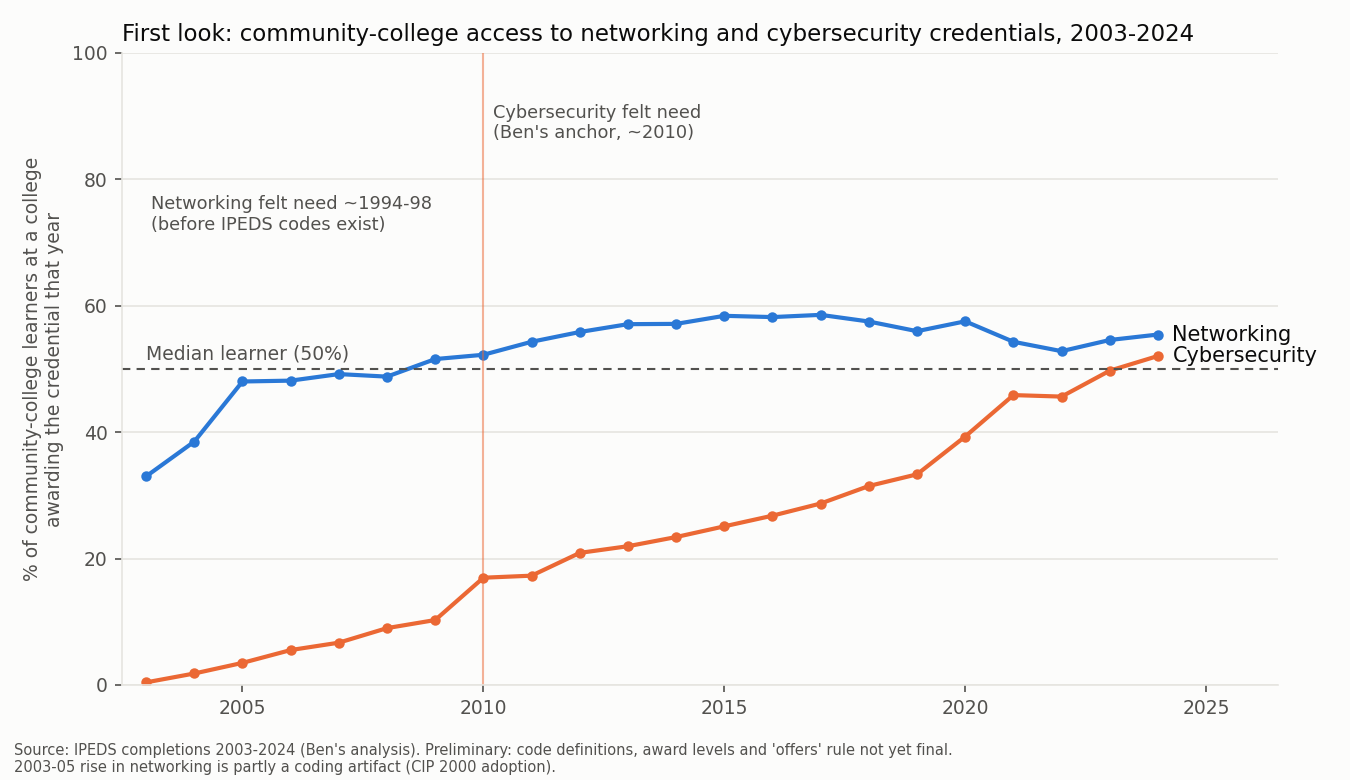
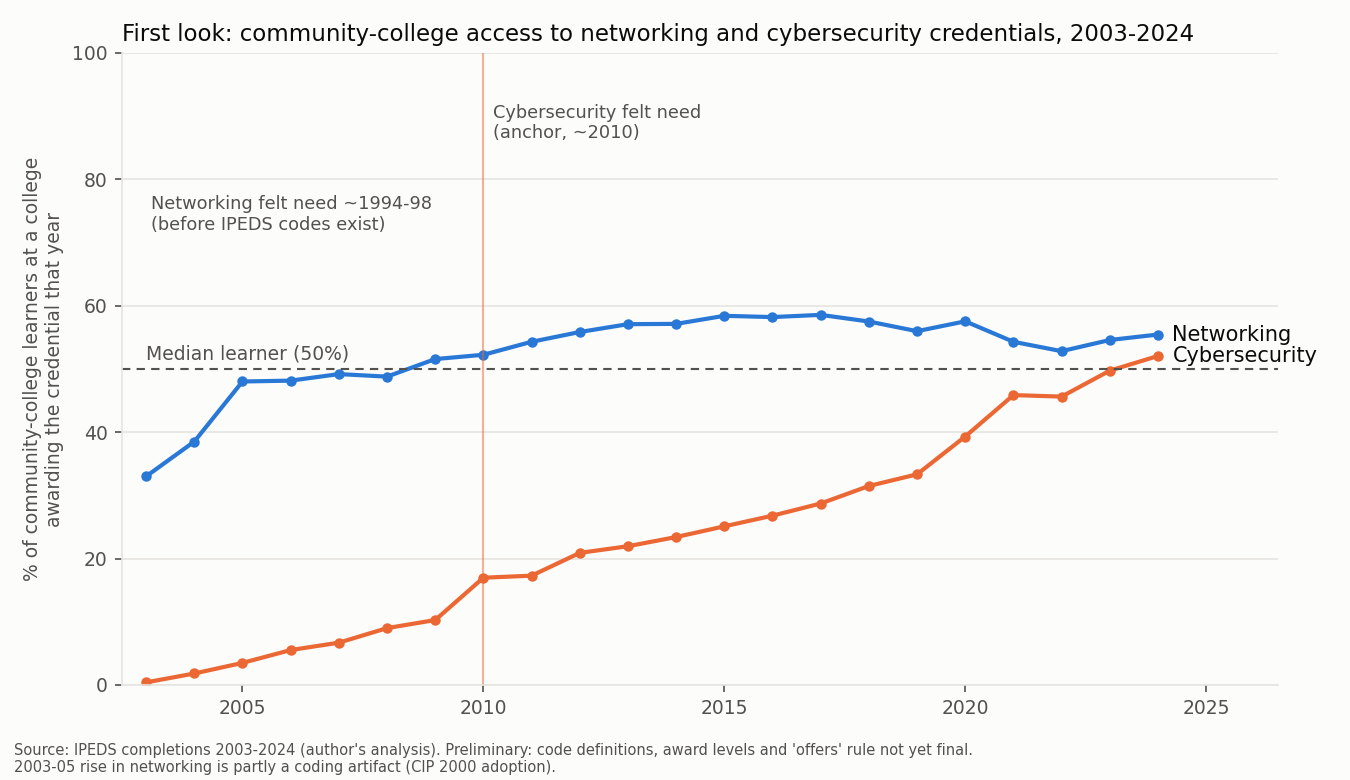
Clean up documentation for outside readers; add hand-validation record

Changed region(s): [[0.2178, 0.9538, 0.7156, 0.9846], [0.3733, 0.1538, 0.5289, 0.1846]]

diff --git a/scripts/03_first_look_chart.py b/scripts/03_first_look_chart.py
@@ -1,7 +1,7 @@
 """Step 3 (first look): share of community-college learners at a college that awarded
 a networking or cybersecurity credential that year, weighted by each college's total awards.
 
-Preliminary definitions (to be confirmed by Ben):
+Preliminary definitions (later finalized; see scripts 11 and 16):
 - Cybersecurity codes: 11.1003, 43.0116 (moved to 43.0403 in CIP 2020), 43.0404
 - Networking codes: 11.0901, 11.1001, 11.1002
 - 'Offers' = at least one first-major award in that year, any award level
@@ -22,7 +22,7 @@ for case, col, label in [("net", BLUE, "Networking"), ("cyber", ORANGE, "Cyberse
 ax.axhline(50, color=INK2, lw=1, ls=(0, (4, 3)))
 ax.text(2003, 51.5, "Median learner (50%)", color=INK2, fontsize=9)
 ax.axvline(2010, color=ORANGE, lw=1, alpha=0.5)
-ax.text(2010.2, 92, "Cybersecurity felt need\n(Ben's anchor, ~2010)", color=INK2, fontsize=8.5, va="top")
+ax.text(2010.2, 92, "Cybersecurity felt need\n(anchor, ~2010)", color=INK2, fontsize=8.5, va="top")
 ax.text(2003.1, 72, "Networking felt need ~1994-98\n(before IPEDS codes exist)", color=INK2, fontsize=8.5)
 ax.set_xlim(2002.5, 2026.5); ax.set_ylim(0, 100)
 ax.set_ylabel("% of community-college learners at a college\nawarding the credential that year", color=INK2, fontsize=9)
@@ -31,7 +31,7 @@ ax.set_title("First look: community-college access to networking and cybersecuri
 for s in ["top", "right"]: ax.spines[s].set_visible(False)
 for s in ["left", "bottom"]: ax.spines[s].set_color(GRID)
 ax.tick_params(colors=INK2, labelsize=9); ax.grid(axis="y", color=GRID, lw=0.8); ax.set_axisbelow(True)
-fig.text(0.01, 0.01, "Source: IPEDS completions 2003-2024 (Ben's analysis). Preliminary: code definitions, award levels and 'offers' rule not yet final.\n"
+fig.text(0.01, 0.01, "Source: IPEDS completions 2003-2024 (author's analysis). Preliminary: code definitions, award levels and 'offers' rule not yet final.\n"
          "2003-05 rise in networking is partly a coding artifact (CIP 2000 adoption).", fontsize=7, color=INK2)
 plt.tight_layout(rect=(0, 0.05, 1, 1))
 plt.savefig("output/first_look_access_cc.png", facecolor=BG)

diff --git a/scripts/07_cyber_timeline_chart.py b/scripts/07_cyber_timeline_chart.py
@@ -20,7 +20,7 @@ ax1.plot(n.index, n.cyber_workers, color=AQUA, lw=2); ax1.text(2024.3, n.cyber_w
 ax1.plot(n.index, n.computer_security_phrase, color=INK2, lw=1.2, ls=(0, (2, 2))); ax1.text(1990.2, 140, "'computer security' (older term)", color=INK2, fontsize=8.5)
 ax1.set_ylabel("NYT articles per year", color=INK2, fontsize=9)
 ax1.set_title("Felt need: New York Times coverage", color=INK, fontsize=10.5, loc="left")
-ax1.text(2010.3, 380, "Ben's felt-need anchor (~2010)", color=INK2, fontsize=8.5)
+ax1.text(2010.3, 380, "Felt-need anchor (~2010)", color=INK2, fontsize=8.5)
 ax2.plot(a.index, a.access_share * 100, color=ORANGE, lw=2, marker="o", ms=3.5)
 ax2.axhline(50, color=INK2, lw=1, ls=(0, (1, 2))); ax2.text(1990.2, 52, "Median learner (50%)", color=INK2, fontsize=8.5)
 ax2.set_ylim(0, 100); ax2.set_ylabel("% of community-college learners\nat a college awarding a cyber credential", color=INK2, fontsize=9)

diff --git a/scripts/06_nyt_felt_need.py b/scripts/06_nyt_felt_need.py
@@ -4,7 +4,7 @@ Each query counts NYT articles per year that match the terms. Notes on the API (
 - q with several words behaves like AND ("cybersecurity workers" = both words), quoted phrases work,
   and OR / body: filters are NOT supported, so each term is its own series.
 - Rate limit is ~5 requests/minute, so the script sleeps 12.5s between calls and is resumable:
-  it skips (series, year) pairs already saved and stops after ~13 calls per run (fits one 3-minute window).
+  it skips (series, year) pairs already saved and stops after a small batch of calls per run (the API is rate-limited).
 - No usable yearly total: q=* returns 0, an empty q is capped at 10,000 hits, and 'the' is treated as a stopword.
   So counts are raw. We read timing (onset and inflection), not levels.
 Output: data/processed/nyt_counts.csv

diff --git a/scripts/17_implementation_chart.py b/scripts/17_implementation_chart.py
@@ -1,4 +1,4 @@
-"""Step 17: Finding 3 chart (Oct 5 redline). Both cases on one calendar axis, with felt-need bands from Finding 1
+"""Step 17: Finding 3 chart. Both cases on one calendar axis, with felt-need bands from Finding 1
 and the latency to the median learner. Shares are the access-weighted series behind Finding 3 (same numbers as script 10)."""
 import matplotlib; matplotlib.use("Agg")
 import matplotlib.pyplot as plt

diff --git a/scripts/exercise_my_definition.py b/scripts/exercise_my_definition.py
@@ -1,4 +1,4 @@
-"""EXERCISE (for Ben): change a judgment call yourself and see what moves.
+"""EXERCISE: change a judgment call yourself and see what moves.
 
 Edit the two settings below, save, and run:   python3 scripts/exercise_my_definition.py
 It prints, for each year, the share of community-college learners at a college that awarded a credential

diff --git a/notes/lab-notebook.md b/notes/lab-notebook.md
@@ -8,7 +8,7 @@
 
 ## 2026-10-01 - decisions
 - Core cases: networking + cybersecurity. Web development excluded (never a clearly credentialed pathway).
-- Cybersecurity felt-need anchor ~2010 (Ben). The 1998-2001 national-security wave is noted separately.
+- Cybersecurity felt-need anchor ~2010 (my judgment; later formalized as 2009-2010, see Oct 5). The 1998-2001 national-security wave is noted separately.
 - 1960s historical case and sector overlays (healthcare, climate) move to the research agenda.
 
 ## 2026-10-01 - first pipeline run
@@ -20,17 +20,16 @@
 - First result (community colleges, access-weighted): cybersecurity reaches 17% of learners in 2010, 25% in 2015, 39% in 2020, and crosses 50% in 2024, so roughly 14 years after a 2010 felt need. Networking is already at 33% in 2003 (left-censored), crosses ~50% in 2008-09, and plateaus at 55-58%.
 - Possible stories behind the dips (to check): the 2016 dip in both curves may be ITT Tech's closure (Sept 2016). The networking decline after 2014 may reflect absorption into general IT (11.0103) or cloud.
 
-## 2026-10-01 - for-profit question (Ben)
+## 2026-10-01 - for-profit question
 - Clarification: the first-look chart covers public 2-year colleges nationwide only (IPEDS sector 4). For-profits are excluded from it, but included in the "all" group.
-- Ben's hypothesis: for-profits exploited the latency gap, quickly offering credentials that matched felt need but had poor labor-market value. The data support the first half:
+- Hypothesis: for-profits exploited the latency gap, quickly offering credentials that matched felt need but had poor labor-market value. The data support the first half:
   - Cybersecurity, share of awards from for-profits: 42% (2004), 76% (2006), 63% (2008), 59% (2010), 50% (2012), 37% (2014), 20% (2016), 12% (2020-24). Publics became the majority only around 2016.
   - Networking, share from for-profits: about 50-54% from 2006 to 2012, then about 25% after 2016.
   - Top cybersecurity awarders 2004-2012: University of Phoenix Online, Capella, ITT Tech Indianapolis, ECPI (2 campuses), UMUC. Top networking awarders: Phoenix Online, ITT Tech, AIU Online, DeVry (IL, CA).
 - Proposed handling: measure latency on public + nonprofit delivery, and report for-profit timing as its own finding (the market filled the gap, often with low-value product). Validate the proxy with College Scorecard field-of-study earnings (CIP 4-digit x credential level; graduates from about 2014-15 to 2019-20), using the earnings-premium threshold from the 2023 financial value / GE rule (median earnings above the median for high-school graduates aged 25-34 in the state).
-- Blocker: the College Scorecard download hosts are not on the allowed list yet.
 
 ## 2026-10-01 - Scorecard value check (first pass)
-- Ben downloaded the full College Scorecard raw data (06/03/2026 release) into data/raw/College_Scorecard_Raw_Data_06032026.
+- Downloaded the full College Scorecard raw data (06/03/2026 release) into data/raw/College_Scorecard_Raw_Data_06032026.
 - Trap 5: Scorecard field-of-study files fill earnings variables inconsistently from release to release. FieldOfStudyData1415_1516 has no earnings for these programs. The earliest usable data is FieldOfStudyData1516_1617, EARN_MDN_HI_1YR (1-year earnings, Title IV recipients). "Most recent" has EARN_NE_MDN_3YR.
 - Trap 6: about 95% of public IT programs are privacy-suppressed (small cohorts). In 1516_1617, programs with earnings break down as 331 for-profit, 93 public, 64 nonprofit. Coverage is skewed toward large online for-profits.
 - Trap 7: IPEDS award levels changed in 2020. Level 1 (under-1-year certificate) split into 20/21 (e.g., an awlevel 21 cyber award at Fullerton College in 2024). Any award-level filter must map the old and new codes.
@@ -61,7 +60,7 @@ Implications:
 
 ## 2026-10-01 - university catalog sample: method change
 - Drew a random sample of 50 public universities (scripts/05; seed 2026). Frame: 514 IPEDS sector-1 institutions with INSTCAT 2 and their own domain that awarded at least one CIP 11 bachelor's in 2024. (A first draw included community colleges with a few bachelor's degrees, e.g., Lone Star and Austin CC. Those were excluded and the sample redrawn.)
-- Wayback CDX blocked us: 503 "Temporarily Offline", then 429 (rate limited), after the broad domain queries. Long CDX queries also exceed the 3-minute call limit, and background jobs don't survive between calls.
+- Wayback CDX returned 503 "Temporarily Offline", then 429 (rate limited), after the broad domain queries, and long domain-wide queries timed out.
 - Fallback: for each institution, use web research (catalog pages, catalog archives, university news releases, program pages) to code (a) whether a cybersecurity degree, concentration, or certificate exists, (b) its level and form (standalone vs. concentration), and (c) the earliest evidenced year, with source and confidence. The earliest evidence is an UPPER bound on when it started. Retry Wayback later to validate a subset.
 - Partial web-research coding: 14 of 50 done (data/wayback/sample50_coding_partial.csv). Search snippets settle program existence and form only about half the time. Dating needs catalog archives or Wayback.
 - Early pattern: (1) concentrations hidden from cyber codes (Pitt MSIS concentration, UTD CS track, UNCG concentrations); (2) noncredit-only cyber via extended ed or vendor bootcamps (UIC bootcamp, CSUMB, FVSU ed2go). That's a second "fast channel" that IPEDS can't see.
@@ -69,21 +68,21 @@ Implications:
 ## 2026-10-01 - NYT felt-need counts
 - Trap 8: in NYT Article Search, a multi-word q ("cybersecurity workers") behaves like AND only when every word has matches. In years when "cybersecurity" never appears (1990-2001), it silently falls back to matching "workers" alone: about 6,500-10,000 hits a year, versus 2-9 a year once the term exists. Fix: cap the AND series at the single-term count (cyber_workers <= cybersecurity) and treat years where the rare term is zero as zero. Prefer quoted phrases.
 - Trap 9: there is no usable yearly total for normalization (q=* returns 0, an empty q caps at 10,000, "the" is a stopword). Use raw counts and read timing only.
-- The script takes ~13 calls per run but sometimes overruns the 3-minute window; use 9 per run.
-- NYT results (raw yearly counts): "computer security" peaks 1999-2003 (84-131) = the national-security wave. "Cybersecurity" plus "cyber security" stays under 31 a year until 2008, jumps to 94 in 2009, then 176 (2013), 258 (2015), 348 (2017), 414 (2020). Workforce framing ("cybersecurity" + "workers") is about 5-9 a year until 2012, then 17 (2013), 36 (2015), 82 (2019), 95 (2020). Reading: topic salience turns around 2009 (consistent with Ben's ~2010 anchor); the workforce-need consensus forms around 2013-2017.
+- The API is rate-limited, so the script runs in small, resumable batches.
+- NYT results (raw yearly counts): "computer security" peaks 1999-2003 (84-131) = the national-security wave. "Cybersecurity" plus "cyber security" stays under 31 a year until 2008, jumps to 94 in 2009, then 176 (2013), 258 (2015), 348 (2017), 414 (2020). Workforce framing ("cybersecurity" + "workers") is about 5-9 a year until 2012, then 17 (2013), 36 (2015), 82 (2019), 95 (2020). Reading: topic salience turns around 2009 (consistent with the ~2010 anchor); the workforce-need consensus forms around 2013-2017.
 - Networking: NYT is a weak sensor. "network administrators" never exceeds 14 a year; "information technology workers" peaks at 12 in 2000 (the 1997-2000 IT-worker-shortage debate). Networking felt need will rest on anchor documents (e.g., the 1997 Commerce Dept and ITAA IT-workforce reports) plus Ngram, not NYT counts.
 - Prototype chart: output/cyber_timeline_prototype.png (felt need above, delivery below, shared year axis).
 
 ## 2026-10-01 - Federal Register (administrative-layer sensor)
-- Pulled through the browser pane (federalregister.gov API, yearly and agency facets). Saved to data/processed/federal_register_counts.csv and federal_register_agency_first_mention.csv. The FR search supports | (OR) and quoted phrases.
+- Pulled from the federalregister.gov API (yearly and agency facets). Saved to data/processed/federal_register_counts.csv and federal_register_agency_first_mention.csv. The FR search supports | (OR) and quoted phrases.
 - "cybersecurity | cyber security": 0 before 1999, 17 (2002), 46 (2009), 130 (2010), 164 (2015), 280 (2016), 430 (2020), 676 (2024). "computer security" holds steady at 30-75 a year through 2008, then fades.
 - Trap 10: "cyber + (workforce | training ...)" mostly picks up regulatory cyber-TRAINING requirements for existing staff (NRC, SEC, DOT), not workforce development. Don't use it as felt need for new workers. The exact phrase "cybersecurity workforce" / "cyber workforce" is rare (0-7 a year, first in 2010).
 - Who owned the need (first FR document mentioning cybersecurity): NIST 2002, DHS 2004, Education 2004, NSF 2008, all of DOL 2016, ETA (DOL's workforce agency) 2019. In 2010-14 DHS had 104 documents, NIST 51, NSF 13, Education 1, DOL 0.
-- Reading: the security and science agencies owned cybersecurity a decade before the workforce system engaged. That's political latency inside the administrative layer, consistent with Ben's stack theory. Needs checking against DOL grant programs that may not appear under these terms (e.g., TAACCCT 2011-18 grants funded IT/cyber programs).
+- Reading: the security and science agencies owned cybersecurity a decade before the workforce system engaged. That's political latency inside the administrative layer, consistent with the layered (political / administrative / operational) framing. Needs checking against DOL grant programs that may not appear under these terms (e.g., TAACCCT 2011-18 grants funded IT/cyber programs).
 - Networking: FR is as weak a sensor as NYT ("network administrator(s)" / "computer networking" 2-13 a year; IT-workforce phrases peak at 10 in 2000).
 
 ## 2026-10-01 - Congressional Record / hearings (political-layer sensor)
-- GovInfo search API (api_key in notes/govinfo_key.txt). Counts = CREC granules (items) per year by publish date; CREC totals per year allow per-10k normalization. CHRG publish dates lag hearings.
+- GovInfo search API (API key stored locally; not included in this repository). Counts = CREC granules (items) per year by publish date; CREC totals per year allow per-10k normalization. CHRG publish dates lag hearings.
 - Cyber in CREC per 10k items: 0 before 1998; 18 (2000-01); spike to 55 (2002: Homeland Security Act, Cyber Security R&D Act); 30-48 (2003-09); 65 (2010); 124 (2012: Cybersecurity Act of 2012 debate); 196 (2015: CISA); about 150-200 since.
 - IT workers / high-tech workers in CREC: peaks 56 (1998) and 61 (2000), matching the H-1B debates (ACWIA 1998, AC21 2000). "network administrators"/"computer networking" peaks at 18 in 1998. So networking felt need is visible in Congress around 1998-2000 as an IT-worker-shortage frame, not as "networking."
 - Layer sequence for cyber (first year at >=10% of own peak, 3-yr avg): Congress 2001, NYT 2008, Federal Register 2009; DOL first FR mention 2016, ETA 2019. Political insiders first, elite press about 7 years later, the workforce agency about 18 years later. Note this cuts against the "speeches chase discourse" pattern: for national-security topics, insiders may lead.
@@ -91,7 +90,7 @@ Implications:
 
 ## 2026-10-01 - enactment timeline
 - data/processed/enactment_timeline.csv lists federal acts, programs, and signals with confidence and source. Rows marked "general knowledge - verify" still need a primary source.
-- Pattern: political latency is SHORT. Networking: the IT-worker felt need peaks in Congress in 1998/2000, and ACWIA (Oct 1998) funds DOL H-1B training grants, first awarded in 2000. Cyber: the first CAE designations (1999) and CyberCorps (2000) come almost immediately after the insider wave; NICE (2010) coincides with Ben's 2010 anchor.
+- Pattern: political latency is SHORT. Networking: the IT-worker felt need peaks in Congress in 1998/2000, and ACWIA (Oct 1998) funds DOL H-1B training grants, first awarded in 2000. Cyber: the first CAE designations (1999) and CyberCorps (2000) come almost immediately after the insider wave; NICE (2010) coincides with the 2010 anchor.
 - Implementation latency is LONG and dominates. Cyber: NICE 2010 -> median community-college learner with access in 2024 = ~14 years.
 - Aim mismatch: early federal cyber programs targeted universities and the federal workforce (CAE universities 1999, SFS scholarships for federal service). Community colleges got a designation only in 2010 (CAE2Y, 6 colleges), and DOL's workforce agency engaged only in 2019. The policy that existed was aimed at a different population than the median learner.
 
@@ -108,9 +107,9 @@ Implications:
 - Medium-high (not re-fetched): National Strategy to Secure Cyberspace (Feb 2003); NICE Framework SP 800-181 (Aug 2017).
 
 ## 2026-10-01 - North Carolina validation (primary source: NCCCS annual approval reports, 2007-2013)
-- Source: "Curriculum Program Approvals and Terminations," Jan-Dec 2007/2008/2009/2010/2011/2012/2013 (webservices.ncleg.gov ViewDocSiteFile 16256, 16337, 16386, 16556, 16603, 16681, 11237). Read through WebFetch (summarized by a model; spot-check against the originals before citing). Table: data/processed/nc_validation.csv.
+- Source: "Curriculum Program Approvals and Terminations," Jan-Dec 2007/2008/2009/2010/2011/2012/2013 (webservices.ncleg.gov ViewDocSiteFile 16256, 16337, 16386, 16556, 16603, 16681, 11237). Read with model-assisted extraction; check figures against the original reports before citing. Table: data/processed/nc_validation.csv.
 - Approval to first IPEDS completer: 1-4 years, median about 2.5-3 (10 matched approvals). So IPEDS completion-based dates trail program launch by about 2-3 years, and code-based latency overstates true implementation latency by roughly that much. A correction factor for the write-up.
-- 2 of about 12 approved programs (Edgecombe Cyber Crime 2010, Pamlico ISS 2010) never produced a cyber-coded completer through 2024. One (Johnston 2012) produced completers in a single year. Approval is not delivery, even inside one college: Ben's vaporware sub-thesis at the micro level.
+- 2 of about 12 approved programs (Edgecombe Cyber Crime 2010, Pamlico ISS 2010) never produced a cyber-coded completer through 2024. One (Johnston 2012) produced completers in a single year. Approval is not delivery, even inside one college: the vaporware pattern at the micro level.
 - Terminations show up as IPEDS teach-outs (Wayne 2011 -> last award 2013; Pitt 2013 -> last award 2013, "not offered recently due to economic trends").
 - 2013: NCCCS consolidated networking and related programs into "Computer Technology Integration" (A25500). That explains NC's heavy generic coding (11.0103) and confirms Trap 12 for NC.
 - NC's "special application process" (an abbreviated approval track for pre-listed titles like ISS and Networking Technology) is a system design feature that speeds approvals. Relevant to the "why" agenda (centralized standards).
@@ -133,23 +132,23 @@ Implications:
 - Current-URL lookups are fast (15-25s), but the earliest capture reflects website redesigns, not program starts. E.g., UNCG's cyber post-bacc certificate page was first captured 2023-06, yet IPEDS shows UNCG cyber completions from 2020. Earliest-capture-of-current-URL is often LATER than IPEDS, so it can't test whether IPEDS late-dates adoption.
 - A workable dating method needs older program-listing pages at different URLs: (a) the institution's own archived catalogs (Acalog/CourseLeaf archives are often live back to about 2008-2012, keyword-searchable, fast, no Wayback), with (b) Wayback snapshots of program A-Z pages for specific years as a fallback.
 
-## 2026-10-01 (night) - university sample, Option A complete (50/50 coded)
+## 2026-10-01 (night) - university sample complete (50/50 coded)
 - Method: Wayback CDX host-prefix scans (www.<domain>, catalog.<domain>) for archived URLs containing cyber / information-security / infosec / information-assurance, filtered to program-like URLs. Earliest capture = an UPPER bound on when a credential was publicly described. Supplemented with web research (news, current catalogs). Hosts too big for CDX (pitt, uic, uta, umw-www, umass, jsums) were handled through web research. Rate limits (429) were handled with pauses. Files: data/wayback/host_scans.csv, cdx/, earliest_candidates.txt, sample50_coding_final.csv, sample50_coding_merged.csv; scripts 13-15.
 - Coding: 37/50 have a credit-bearing cyber credential (degree, concentration/track/emphasis, or certificate); 1 has a minor only; 12 have none found (several low-confidence "N"; noncredit-only offerings like UIC's bootcamp, CSUMB, and Nevada State count as N).
 - Hidden entirely: 7 of 37 (19%) never appear under federal cyber codes through 2024: Mary Washington (BS since ~2020), Tennessee State (CS concentration since 2020-21), Western Colorado (CS info-security emphasis since 2019), Savannah State (CS track since 2021-22), plus Mines, UT Arlington, and Purdue Fort Wayne (dates unknown).
 - Late: of 18 institutions dated independently of IPEDS that do appear in cyber codes, the median lag from first evidence to first cyber-coded award is 3 years (mean 5.3). That's in line with the normal 1-4 year launch-to-graduate lag from the NC validation. But 8 of 18 (44%) lag MORE than 3 years: Toledo 4, Middle Georgia 6, USF 7, Morgan 7, Angelo 8, UCF 8, UW-Parkside 17 (certificate since 2007), Pitt 19 (MSIS security track since ~2004).
 - Combined: at least 15 of 37 universities with cyber credentials (41%) were invisible to federal cyber codes for years beyond normal lag, or entirely. Because evidence dates are upper bounds, these gaps are conservative.
-- Caveats: (1) Wayback URL-keyword evidence favors institutions whose URLs contain "cyber"; programs described under other words are missed, which makes earliest dates late (conservative). (2) "N" codings for small/large schools rely on web search; some may be wrong. (3) Hand validation of a subset by Ben is still pending (suggest UWP, Pitt, UCF, Angelo, Tennessee State, UMW, Western Colorado, Savannah State).
+- Caveats: (1) Wayback URL-keyword evidence favors institutions whose URLs contain "cyber"; programs described under other words are missed, which makes earliest dates late (conservative). (2) "N" codings for small/large schools rely on web search; some may be wrong. (3) A subset of 8 was hand-validated on Oct 2 (see below and HAND_VALIDATION.md).
 - Chart: output/university_gap.png (dumbbell: first evidence vs. first cyber-coded award).
 
-## 2026-10-02 - Ben's hand validation (8 universities)
-- Ben confirmed UW-Parkside, UCF, Angelo State, and Western Colorado. Tennessee State, Mary Washington, and Savannah State: programs exist, and College Navigator shows no "Computer and Information Systems Security" program. That confirms the "hidden" claim.
+## 2026-10-02 - hand validation (8 universities)
+- Confirmed UW-Parkside, UCF, Angelo State, and Western Colorado. Tennessee State, Mary Washington, and Savannah State: programs exist, and College Navigator shows no "Computer and Information Systems Security" program. That confirms the "hidden" claim.
 - Pitt: the 2004 LERSAIS article shows only the CAE designation, not a credential. Re-dated to 2012 using the archived 2012 graduate bulletin (MSIS specialization in information assurance and security). The lag is now 11 years. Counts are unchanged (15/37; 8/18 >3 yrs); median lag 3; mean lag 4.9.
 
-## Oct 5: redline of Ben's 10-4 draft
+## 2026-10-05 - revisions to the research note
 - Reordered findings to follow the framework: 1 felt need, 2 enactment (political latency), 3 implementation (implementation latency), 4 for-profit, 5 measurement, 6 state variation (split out of 5).
 - Felt-need dating rule made explicit: when attention spread beyond Congress to the press and agencies. Networking 1998–2000; cybersecurity 2009–2010.
 - Headline latency is now 9–14 years (networking ~2009 crossing = 9–11 yrs; cybersecurity 2023 = 13–14 yrs; 2020 by the looser test).
 - New Finding 3 chart: scripts/17_implementation_chart.py -> output/implementation_latency.png.
 - Networking felt-need layers checked (raw counts): Congress spike 1998 (30.6 per 10k), NYT 24 articles in 2000, Federal Register 13 in 2000. Too thin to chart; described in text.
-- AI section rewritten per Ben: ChatGPT = attention to technology, not workforce felt need; projection late 2030s–early 2040s, framed as judgment.
+- AI section revised: ChatGPT = attention to technology, not workforce felt need; projection late 2030s–early 2040s, framed as judgment.

diff --git a/WALKTHROUGH.md b/WALKTHROUGH.md
@@ -1,12 +1,10 @@
-# Walkthrough: understanding the pipeline (for Ben)
+# Walkthrough: how the pipeline works
 
-**Goal:** be able to say, truthfully, "I can explain every step and every judgment call." Plan for two sittings of about an hour each. Do Part A before submitting. Parts B-C are for interview prep.
+A plain-English guide to the code, for readers who want to check the measure or change a judgment call themselves.
 
----
+## Part A: the core measure in about 40 lines
 
-## Part A: the core idea in code (before Monday, about 60 min)
-
-### A1. Five pandas ideas (10 min)
+### A1. Five pandas ideas
 
 Everything here is built from these five moves:
 
@@ -18,40 +16,31 @@ Everything here is built from these five moves:
 | `a.merge(b, on=["year","unitid"])` | joins two tables on shared keys | VLOOKUP |
 | `(x * w).sum() / w.sum()` | weighted average | SUMPRODUCT / SUM |
 
-### A2. Read the exercise script (15 min)
+### A2. Read the exercise script
 
-Open `scripts/exercise_my_definition.py`. It is the whole delivery measure in about 40 lines, numbered 1-5. In each step, find the pandas idea from A1.
+`scripts/exercise_my_definition.py` is the whole implementation measure, in five numbered steps. Each step uses one or two of the ideas above.
 
-### A3. Run it yourself (10 min)
+### A3. Run it
 
-From the Fellows Demo folder, run `python3 scripts/exercise_my_definition.py`. You should see 2023 as the first year at or above 50%. That is the headline number in Finding 1.
+From the repository root, after running `scripts/00_download_raw.sh` and scripts 01–02, run `python3 scripts/exercise_my_definition.py`. It prints the access-weighted share for each year; 2023 is the first year at or above 50%, the cybersecurity date in Finding 3.
 
-### A4. Change a judgment call (15 min)
+### A4. Change a judgment call
 
-Edit `MY_CODES` to add `"11.0901", "11.1001", "11.1002"` (networking). Rerun. The year jumps to 2009. Be able to explain why: some colleges file cybersecurity under networking codes (Las Positas), and networking programs were already widespread by 2003. That is exactly why the note reads the code-based date as an upper bound.
+Edit `MY_CODES` to add `"11.0901", "11.1001", "11.1002"` (networking) and rerun. The year jumps to 2009. Some colleges file cybersecurity under networking codes (Las Positas, for example), and networking programs were already widespread by 2003. That is why the note reads the code-based date as an upper bound.
 
-### A5. Say it out loud (10 min)
+### A5. The measure in three sentences
 
-Explain the delivery measure in 3 sentences without notes. Something like: *"For each year, I take every community college, mark whether it awarded at least one credential under the cybersecurity codes, and weight it by how many credentials it awards overall. The weighted share is the fraction of learners attending a college that delivers the credential. The median learner has access when that share crosses 50%."*
+For each year, take every community college, mark whether it awarded at least one credential under the cybersecurity codes, and weight it by how many credentials it awards overall. The weighted share is the fraction of learners attending a college that delivers the credential. The median learner has access when that share crosses 50%.
 
----
+## Part B: script by script
 
-## Part B: script by script (interview prep, about 60 min)
-
-| Script | Plain-English job | The judgment call inside it | Likely question |
+| Script | What it does | The judgment call inside it | A question a reader might ask |
 |---|---|---|---|
-| 01 | Pulls 22 years of federal completion files and keeps computing/security programs | Use NCES's revised files; find the total column whose name changed in 2008 | "How did you know the totals were right?" Checked CS bachelor's against published totals (about 60K in 2004, 40K in 2010, 98K in 2020) and confirmed men + women = total in 100% of rows |
-| 02 | Adds each college's state, sector, and total awards (the weight) | Total awards as a proxy for learners served | "Why not enrollment?" Awards are in the same files, are measured consistently, and track scale. Enrollment would be a robustness check |
-| 11 | National and state clocks | Community-college definition (Trap 11); annual vs. ever-awarded | "Why include bachelor's-granting community colleges?" Florida and Washington would vanish otherwise |
-| 04b | Earnings test vs. state thresholds | Use the federal gainful-employment thresholds rather than inventing one | "Isn't 1-year earnings too early?" Yes. The 3-year cohort points the same way, and the note flags the caveat |
-| 05, 14 | Random university sample; Internet Archive evidence | Seed fixed for reproducibility; evidence dates are upper bounds | "How do you know the gaps aren't just graduation lag?" North Carolina shows normal lag of 1-4 years; I count only gaps beyond 3 |
-| 06, 08 | NYT and Congressional Record counts | One source per layer; phrases preferred | "What went wrong?" Trap 8: two-word NYT searches fall back to one word |
-| 16 | Intervals and sensitivity | Wilson intervals; vary every judgment call | "What would change your conclusion?" Only counting networking as cyber, which is itself evidence of hidden coding |
-
-## Part C: questions to rehearse
-
-1. Walk me through one data error you caught. (Pick Trap 1, 4, or 8.)
-2. Why the median learner and not the first adopter?
-3. What would you need to measure AI adoption properly? (Reading curricula at scale; the overlay problem.)
-4. You don't write Python. How would you work as a fellow? (How you worked here: you set questions and definitions, the agent writes code, and you verify outputs against independent checks. Then show the exercise.)
-5. What's the weakest part of this analysis? (Two cases from one era; codes undercount; web-evidence sample.)
+| 01 | Pulls 22 years of federal completion files and keeps computing and security programs | Use NCES's revised files; find the total column whose name changed in 2008 | *How do you know the totals are right?* Computer-science bachelor's totals match published figures (about 60K in 2004, 40K in 2010, 98K in 2020), and men + women = total in 100% of rows. |
+| 02 | Adds each college's state, sector, and total awards (the weight) | Total awards as a proxy for learners served | *Why not enrollment?* Awards are in the same files, are measured consistently, and track scale. Enrollment would be a robustness check. |
+| 11 | National and state latencies | Community-college definition (Trap 11); annual vs. ever-awarded measure | *Why include bachelor's-granting community colleges?* Florida's and much of Washington's systems would otherwise vanish. |
+| 04b | Earnings test against state thresholds | Use the federal gainful-employment thresholds rather than inventing one | *Isn't one-year earnings too early?* Yes. The three-year cohorts point the same way, and the note flags the caveat. |
+| 05, 14 | Random university sample; Internet Archive evidence | Fixed seed for reproducibility; evidence dates are upper bounds | *Couldn't the gaps just be graduation lag?* North Carolina records show a normal lag of 1–4 years; only gaps beyond 3 years are counted. |
+| 06, 08 | New York Times and Congressional Record counts | One source per layer; exact phrases preferred | *What went wrong along the way?* Trap 8: two-word NYT searches silently fall back to one word. |
+| 16 | Intervals and sensitivity | Wilson intervals; vary every judgment call | *What would change the conclusion?* Only counting networking programs as cybersecurity, which is itself evidence of hidden coding. |
+| 17 | Finding 3 chart | Felt-need bands from Finding 1 | — |

diff --git a/DECISIONS.md b/DECISIONS.md
@@ -1,16 +1,16 @@
 # Decision log
 
-*DRAFT for Ben to edit into his own words. Each entry gives the call, the alternatives, and why. The point of this file: a reviewer can see which judgments were mine.*
+*Each entry gives the call, the alternatives, and why. The point of this file: a reader can see which judgments were mine, and what the conclusions depend on.*
 
 ## Framing
 
 1. **Measure adoption speed, not technology speed.**
    - Why: most AI debate is about capability; adoption gets less attention, and in education it usually means whether students use chatbots. I wanted to test the quiet assumption that schools adapt as fast as employers.
-2. **Three timestamps: felt need, enactment, delivery.**
-   - Why: this splits the clock into political latency and implementation latency. It maps onto the layers I worked in (political, administrative, operational), and it tests something I saw repeatedly in state government: passing a bill is not the same as students getting anything.
-3. **"Clock speed" as the frame.**
+2. **Three timestamps: felt need, enactment, implementation.**
+   - Why: this splits latency into two parts: political latency (felt need to enactment) and implementation latency (enactment to access). It maps onto the layers I worked in (political, administrative, operational), and it tests something I saw repeatedly in state government: passing a bill is not the same as students getting anything.
+3. **"Latency" as the frame.**
    - Alternative: "the system is slow," which reads as cynical and isn't actionable.
-   - Why: every channel has a clock, and the design question is routing each need to a fast enough channel.
+   - Why: every channel (credit programs, noncredit courses, vendor certifications, apprenticeships) has its own latency, and the design question is routing each need to a channel fast enough to meet it.
 4. **No "slowing down" hypothesis.**
    - What I dropped: I started with a hunch that education has slowed since the 1960s Master Plan era.
    - Why: two same-era cases can't test it, so I measure latency objectively and put the historical question in the research agenda.
@@ -20,10 +20,12 @@
 5. **Networking and cybersecurity.**
    - Rejected: web development, which never became a clearly credentialed pathway, so it wouldn't compare cleanly with networking. Also green jobs and health IT, which are sector overlays: more AI-like, but code-based data can't see them. Those moved to the research agenda and the "fast channel" counterpoint.
    - Rejected: 1960s data processing, because institution-level data requires ICPSR access.
-6. **Cybersecurity felt need anchored around 2010.**
-   - Why: that is when the sector became broadly in demand and when I saw community colleges and CSUs formalize programs. I report the earlier national-security wave (1998–2001) and the later workforce framing (about 2013) as a range.
-7. **AI felt need anchored at ChatGPT (Nov 2022).**
-   - Why: GPT-3 (2020) is when experts began converging; ChatGPT is when consensus formed broadly.
+6. **Felt need dated by a rule: when attention spread beyond Congress to the press and federal agencies.**
+   - Result: 1998–2000 for networking; 2009–2010 for cybersecurity.
+   - Why: applying one rule to both cases is easier to defend than picking anchors case by case. For cybersecurity, it also matches my own read: around 2010 the sector became broadly in demand, and I saw community colleges and CSUs formalize programs. I report the earlier national-security wave (1998–2001) and the later workforce framing (about 2013) separately.
+7. **AI felt need not anchored at ChatGPT.**
+   - Alternative considered: date it to ChatGPT (Nov 2022), which would put the median learner's access around 2032–2036.
+   - Why not: by the rule above, ChatGPT was attention to the technology, not to the jobs. In cybersecurity, attention to the workforce trailed attention to the technology by years. My judgment is that we are at the early upswing of felt need for AI career pathways, which points to the late 2030s or early 2040s. The note presents this as a judgment, not a measurement.
 
 ## Measurement
 
@@ -31,8 +33,8 @@
    - Why: a pioneering college shows what is possible; the median shows what the system does.
 9. **Weight by learners, not institutions.**
    - Why: I care about how most people learn, which is mostly community colleges and non-college pathways, not outlier institutions.
-10. **Delivery means a credential with labor-market value.**
-    - Why: a club or a single course is not delivery.
+10. **Implementation means access to a credential with labor-market value.**
+    - Why: a club or a single course doesn't count.
 11. **Public and nonprofit delivery as the headline; for-profit reported separately.**
     - Why: for-profits exploited exactly this latency gap with fast credentials that often didn't pay off. A proxy was needed, and I checked it with earnings data rather than assuming it.
 12. **Validate the value proxy with an existing federal standard.**

diff --git a/HAND_VALIDATION.md b/HAND_VALIDATION.md
@@ -1,0 +1,22 @@
+# Hand validation: 8 universities
+
+Eight universities carry most of the weight in Finding 5 ("federal data can't see much of the adaptation"). Each was checked by hand on Oct 2, 2026, against three tests:
+
+1. **It is a credit-bearing credential:** a degree, a concentration or track inside a degree, or a for-credit certificate, not a noncredit course, club, or news item.
+2. **The year is plausible:** the archived page describes the program at that date.
+3. **Federal data doesn't show it under cybersecurity:** College Navigator (nces.ed.gov/collegenavigator) does not list "Computer and Information Systems Security" for the school.
+
+| # | University | Claim tested | Evidence | Result |
+|---|---|---|---|---|
+| 1 | UW-Parkside | Cybersecurity certificate in computer science by July 2007; first federal cyber-coded award in 2024 | https://web.archive.org/web/20070714113823/http://www.uwp.edu:80/departments/computer.science/cyber.security.certificate/ (also the 2011–13 PDF: https://web.archive.org/web/20121221035348/http://www.uwp.edu/departments/advising.career/advising/documents/CyberSecurityCertificate2011-2013.pdf) | Confirmed |
+| 2 | Pittsburgh | Security specialization in the MS in Information Science; first cyber-coded award in 2023 | Originally dated to 2004 from a news item on Pitt's NSA/DHS academic-center designation (http://www.sis.pitt.edu/lersais/news/articles/2004/lersais_designated_cae.php), which confirms the designation but not a credential. Re-dated using the archived 2012 graduate bulletin: https://bulletins.pitt.edu/archive/2012/graduate/isis.htm | Re-dated to 2012 (11-year gap) |
+| 3 | Central Florida | Cyber operations certificate and behavioral-cybersecurity graduate certificate by Sept 2015; first cyber-coded award in 2023 | https://web.archive.org/web/20150907024457/http://www.ucf.edu/academics/cyber-operations/ | Confirmed |
+| 4 | Angelo State | Graduate cybersecurity certificate by Sept 2015; first cyber-coded award in 2023 | https://web.archive.org/web/20150905202628/http://www.angelo.edu/content/profiles/2749-cybersecurity-certificate/Templates/profiles-graduate-programs.php | Confirmed |
+| 5 | Tennessee State | Cybersecurity & Networking concentration in computer science (2020–21); never cyber-coded through 2024 | https://web.archive.org/web/20211018045811/https://www.tnstate.edu/computer_science/documents/Computer_Science_Cybersecurity_Networking_Concentration_2020_2021.pdf | Confirmed: program exists; not listed under the cybersecurity code |
+| 6 | Mary Washington | Cybersecurity major and minor in the catalog by May 2020; never cyber-coded through 2024 | https://web.archive.org/web/2020/https://catalog.umw.edu/undergraduate/majors/cybersecurity/ | Confirmed: program exists; not listed under the cybersecurity code |
+| 7 | Western Colorado | Information security emphasis in computer science by Aug 2019; never cyber-coded through 2024 | https://web.archive.org/web/2019/https://www.western.edu/academics/undergraduate/computer-science/information-security | Confirmed |
+| 8 | Savannah State | Cybersecurity track in computer science (2021–22 program map); never cyber-coded through 2024 | https://web.archive.org/web/20220706064859/http://catalog.savannahstate.edu/mime/media/9/1348/ComputerScience_CyberSecurity_ProgramMap_2122.pdf | Confirmed: program exists; not listed under the cybersecurity code |
+
+**Outcome:** 7 confirmed; 1 re-dated with a stronger source. The headline counts are unchanged: 15 of 37 universities hidden for years beyond normal lag or entirely, and 8 of 18 dated programs lagging more than 3 years. The median lag is 3 years (mean 4.9).
+
+**Caveat for Mary Washington:** a major launched in 2020 may have graduated its first class only in 2023–24, so part of its gap may be newness rather than coding.

diff --git a/README.md b/README.md
@@ -20,6 +20,7 @@ I designed the questions, definitions, and judgment calls. An AI coding agent (C
 - `DECISIONS.md` lists the judgment calls I made and why.
 - `notes/lab-notebook.md` is the running log: what was tried, what broke, and the 12 data traps found and fixed.
 - `WALKTHROUGH.md` is a plain-English guide to every script.
+- `HAND_VALIDATION.md` records the hand check of 8 universities behind Finding 5.
 - Each script opens with a plain-English description of what it does.
 
 ## Repository map
@@ -36,7 +37,7 @@ I designed the questions, definitions, and judgment calls. An AI coding agent (C
 | `scripts/16` | Confidence intervals and sensitivity table |
 | `data/processed/` | Every derived table the note cites |
 | `data/wayback/` | University-sample coding and Internet Archive evidence |
-| `output/` | Charts, intervals, sensitivity |
+| `output/` | Charts, intervals, sensitivity. Charts marked "prototype" or "preliminary" are early working versions; the note's figures are final. |
 
 ## Sources
 
